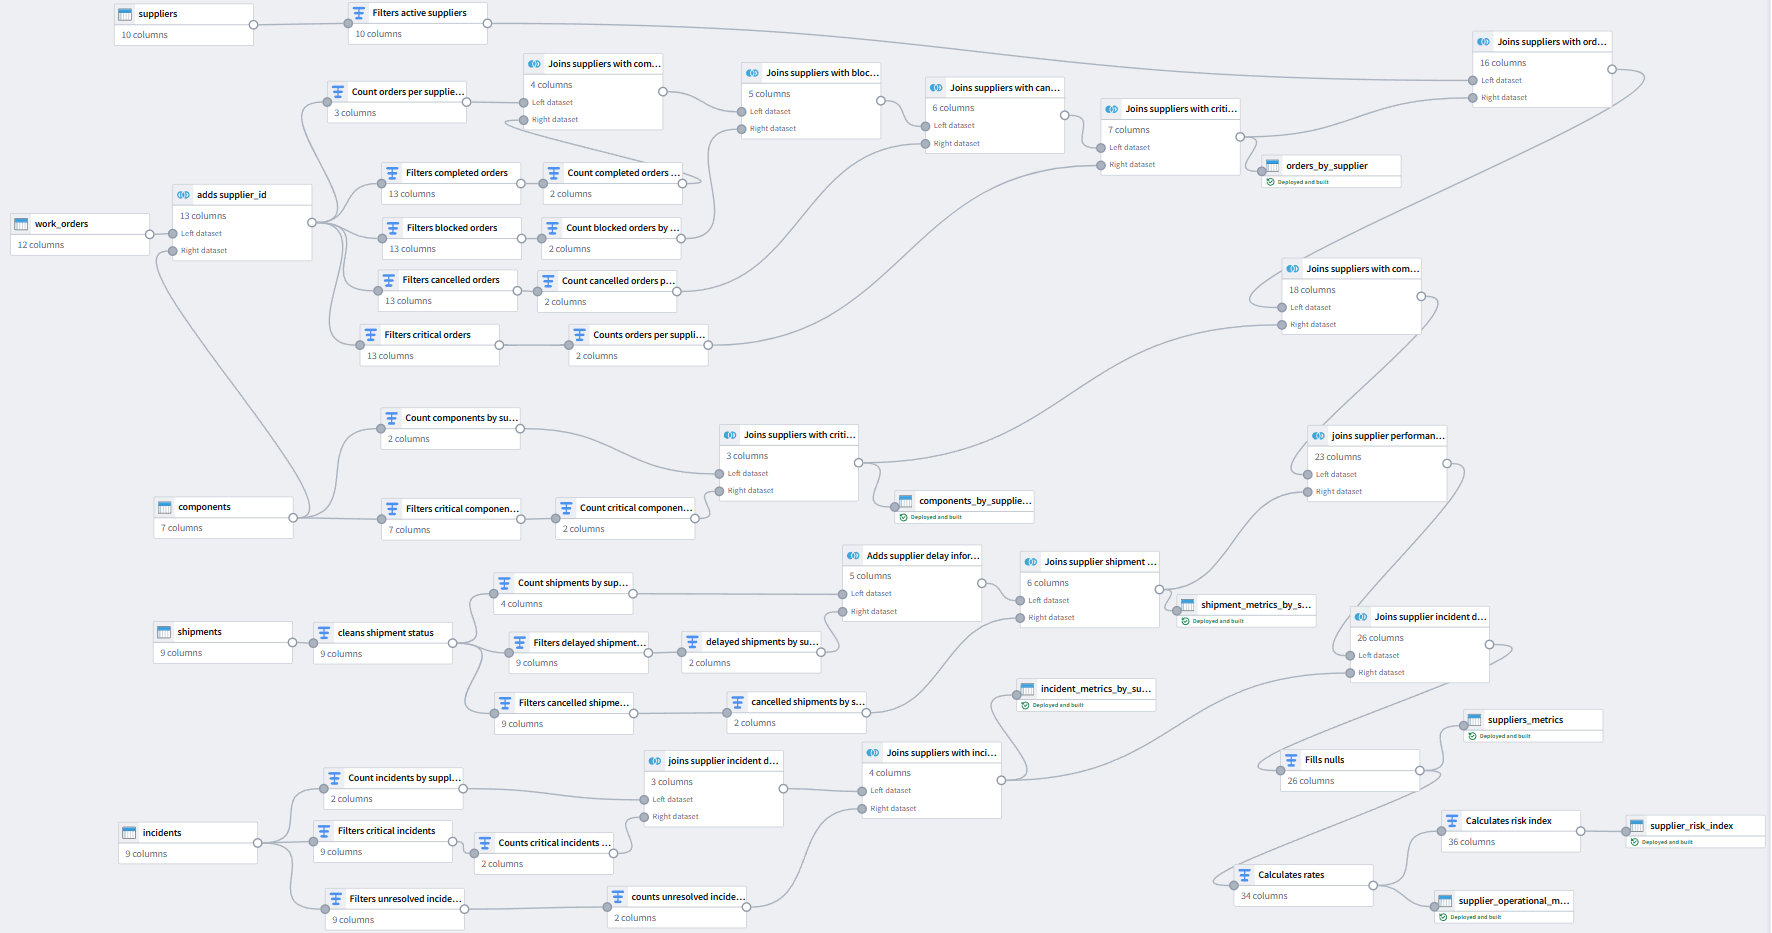
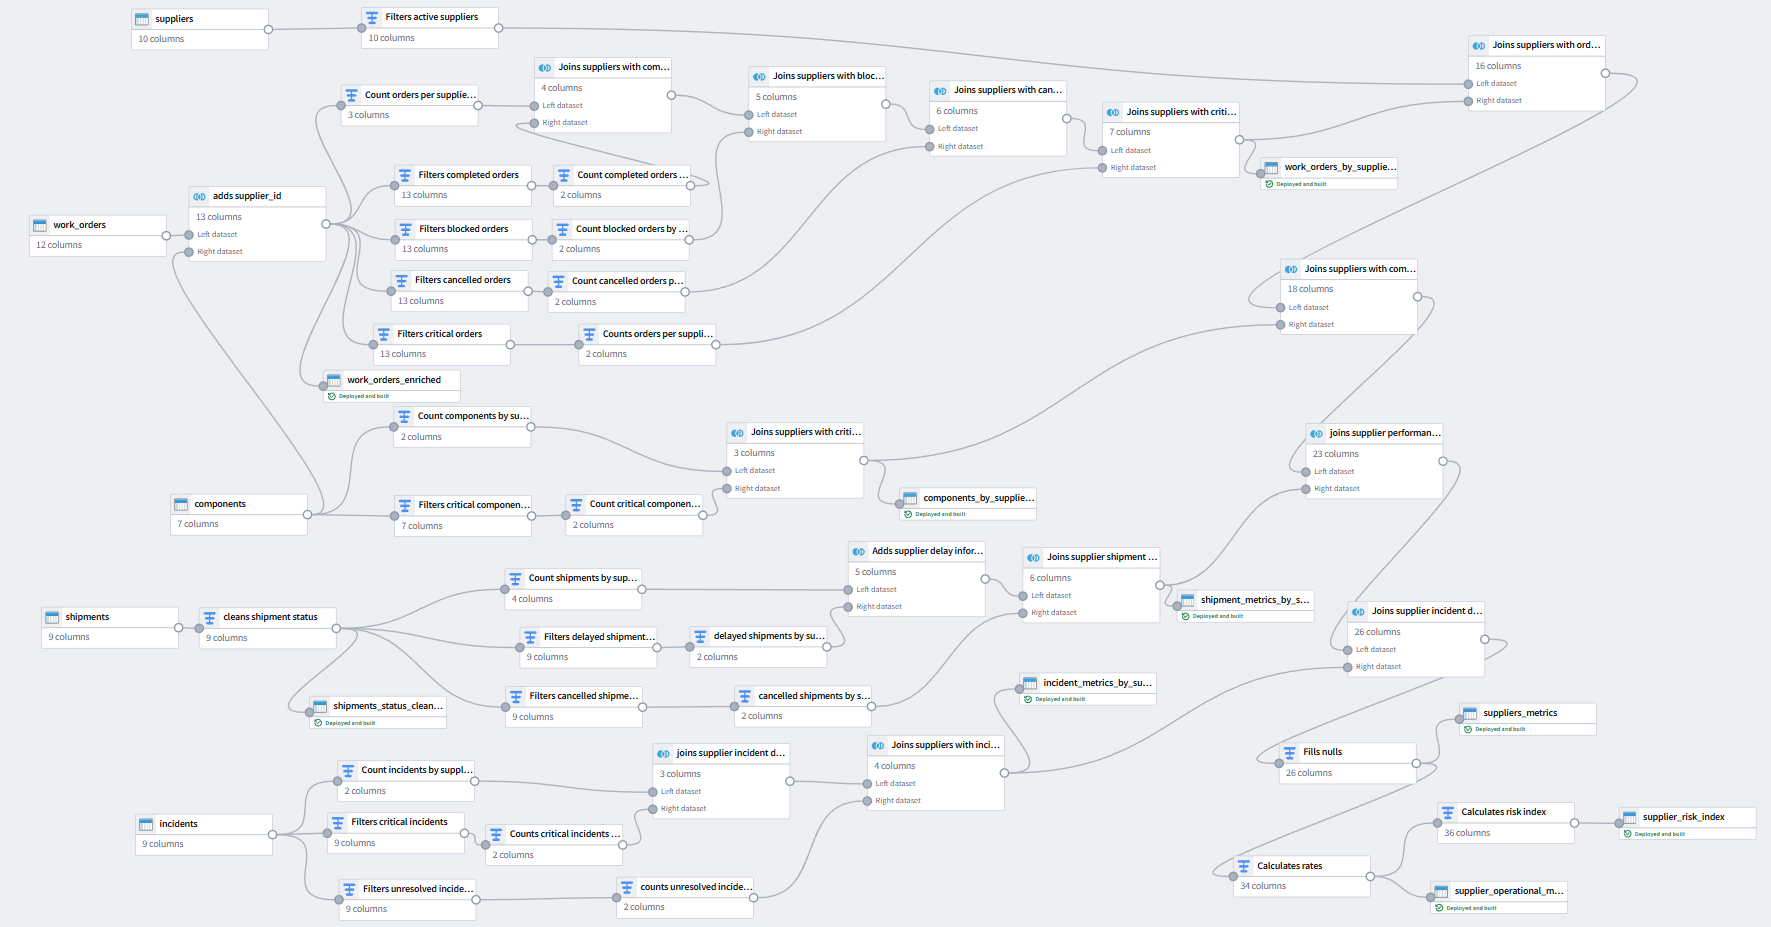
Add Ontology and Workshop application

diff --git a/README.md b/README.md
@@ -2,71 +2,112 @@
 
 Industrial data platform inspired by the Palantir Foundry ecosystem for manufacturing and operational environments.
 
-The goal of this project is to apply end-to-end Data Engineering principles and build a modular industrial platform capable of integrating operational data, implementing business logic, and delivering data products that support industrial decision making.
+The goal of this project is to build a realistic end-to-end industrial platform capable of integrating operational data, implementing business logic, modeling business entities through Ontology, and delivering operational applications that support industrial decision-making.
 
 ---
 
 ## Vision
 
-This project explores practical Data Engineering concepts through realistic industrial use cases, including:
+This project progressively demonstrates how Palantir Foundry concepts can be applied in a realistic manufacturing and supply chain environment.
 
-- Industrial data integration
-- Business data modeling
-- Pipeline orchestration
-- Operational analytics
-- Ontology-driven design
-- Business applications
-- Manufacturing scenarios
+Rather than building isolated demos, the objective is to create a shared industrial data foundation that supports multiple business modules, operational workflows, and future applications.
 
 ---
 
-## Current Development
+## Platform Architecture
 
-The current module focuses on **Supplier Operational Risk**, integrating suppliers, components, shipments and incidents through modular Pipeline Builder workflows.
+Current industrial data foundation:
 
-This workflow progressively transforms raw industrial data into operational metrics for future Ontology models and business applications.
+* Suppliers
+* Components
+* Plants
+* Shipments
+* Work Orders
+* Incidents
 
-![Pipeline Builder workflow](images/pipeline-builder/supplier-risk-pipeline.png)
+All datasets are connected through realistic business relationships and support a shared industrial Ontology.
 
-Current datasets:
-
-- Suppliers
-- Components
-- Shipments
-- Incidents
-- Plants
-
-Current capabilities:
-
-- Multi-source data integration
-- Modular Pipeline Builder workflows
-- Business logic implementation
-- Supplier operational metrics
-- Data quality and validation
-- Operational KPI calculation
-- Industrial data modeling
+![Ontology Overview](images/ontology/ontology-overview.png)
 
 ---
 
-## Future Modules
+## Current Module: Supplier Risk Management
 
-The platform is designed to grow over time.
+The first business module focuses on Supplier Risk Management.
 
-Planned areas of development include:
+A complete Pipeline Builder workflow aggregates operational data from multiple industrial sources and calculates supplier-level risk and performance metrics.
 
-- Supplier performance
-- Operational risk scoring
-- Manufacturing KPIs
-- Ontology
-- Workshop applications
-- Actions
-- Additional industrial use cases
+Key capabilities:
+
+* Multi-source data integration
+* Business KPI calculation
+* Data quality handling
+* Null management
+* Operational risk scoring
+* Production-style transformations
+
+![Pipeline Builder Workflow](images/pipeline-builder/supplier-risk-pipeline.png)
+
+---
+
+## Ontology
+
+A business-oriented Ontology has been implemented to model industrial entities and operational metrics.
+
+Current implementation includes:
+
+* Supplier Object Type
+* Business-friendly properties
+* Risk indicators
+* Quality metrics
+* Supply chain metrics
+* Object View configuration
+* Relationship modeling
+
+![Supplier Object Type](images/ontology/supplier-object-type.png)
+
+---
+
+## Workshop Application
+
+A first operational application has been built on top of the Ontology.
+
+### Supplier Risk Management Application
+
+Features:
+
+* Supplier risk distribution analysis
+* KPI monitoring
+* Supplier explorer
+* Supplier detail view
+* Top-risk supplier identification
+* Interactive filtering and exploration
+
+![Supplier Risk Management Application](images/workshop/supplier-risk-app.png)
+
+---
+
+## Roadmap
+
+The platform evolves module by module while reusing the same industrial data foundation and shared Ontology.
+
+Current roadmap:
+
+* ✅ Supplier Risk Management
+* ⏳ Supplier Performance Analytics
+* ⏳ Manufacturing Operations Monitoring
+* ⏳ Logistics & Shipment Intelligence
+* ⏳ Quality Management
+* ⏳ Shared Enterprise Ontology
+* ⏳ Additional Workshop Applications
+* ⏳ Actions & Operational Workflows
+* ⏳ AIP-Powered Use Cases
 
 ---
 
 ## Tech Stack
 
-Palantir Foundry • Pipeline Builder • PySpark • SQL • Ontology • Workshop • Data Lineage
+Palantir Foundry • Pipeline Builder • Ontology • Workshop • PySpark • SQL • Data Lineage
 
 ---
 
@@ -74,7 +115,7 @@ Palantir Foundry • Pipeline Builder • PySpark • SQL • Ontology • Works
 
 🚧 Active development.
 
-This is a long-term portfolio project that evolves incrementally by adding new industrial use cases and platform capabilities.
+This is a long-term portfolio project that incrementally expands into a complete industrial data platform.
 
 ---
 